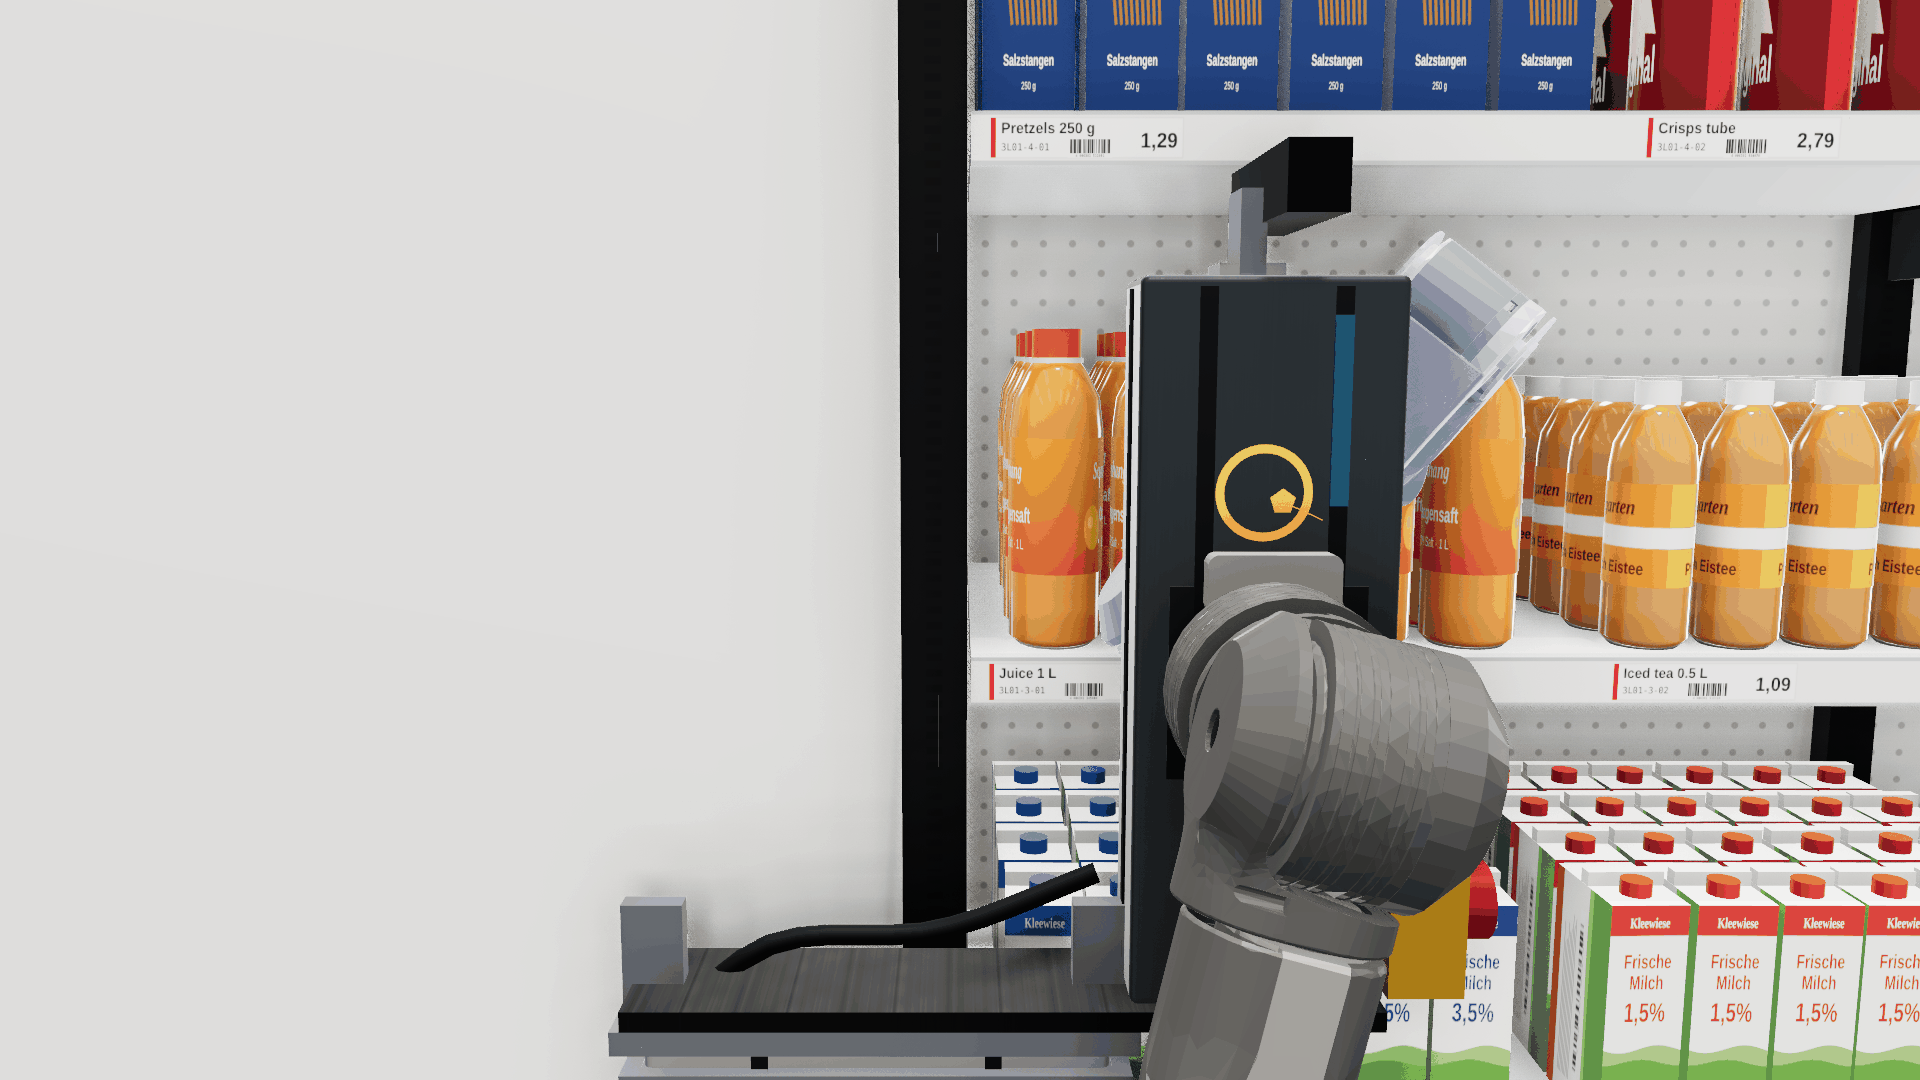
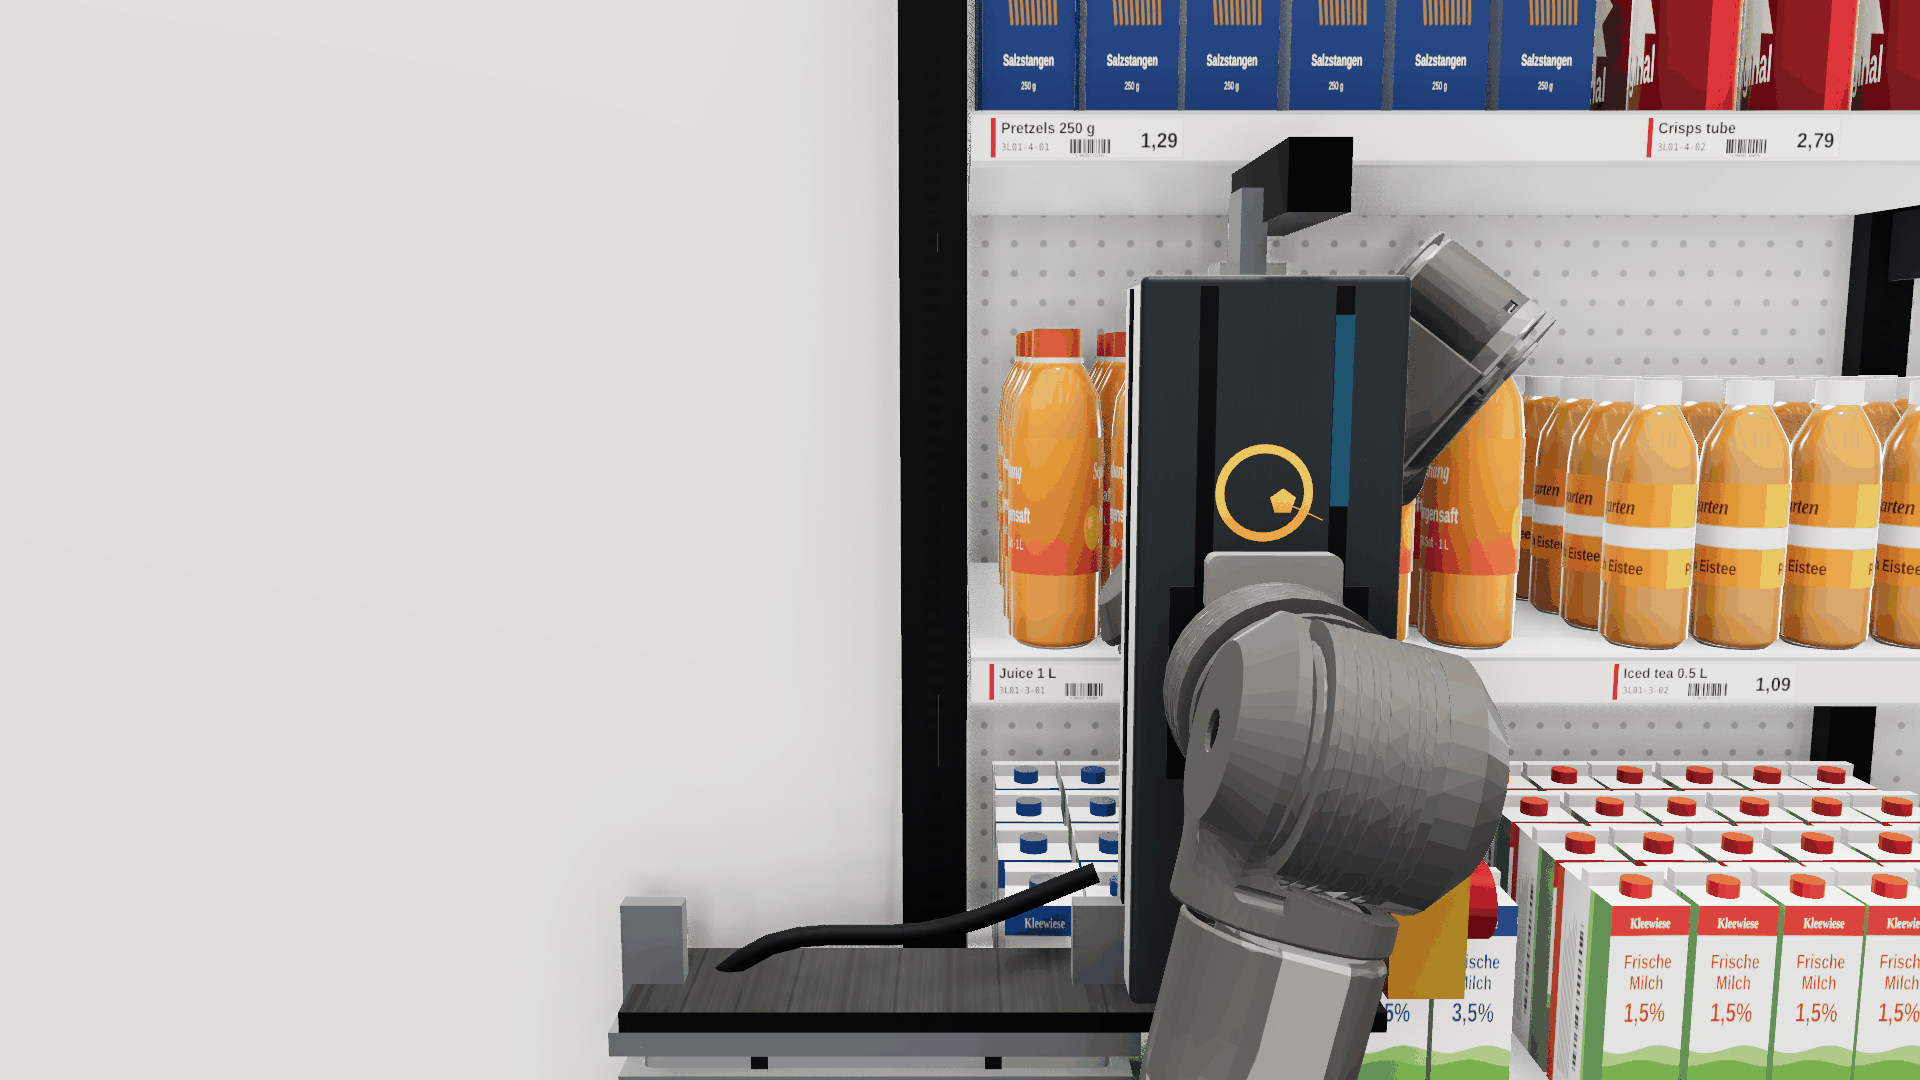
evidence: review round 3 (arm colour cause and measurements, page defaults)
Arm material identity and same-link colour of both arms before (d60f4af)
and after, both looks, Overview and Side presets, page pose and mirrored
rest pose; previews 07 and 08 and the contact sheet regenerated; geometry
check, probe and toggle test and the page-defaults check at 375 and
1280 px rerun.

Claude-Session: https://claude.ai/code/session_01VFnEBRJPA4A3dgj7YTaLKh

diff --git a/evidence/2026-10-26-shared-model/defaults.js b/evidence/2026-10-26-shared-model/defaults.js
@@ -1,0 +1,24 @@
+// Both pages with their defaults at 375 and 1280 px: console errors and warnings, failed requests, horizontal
+// scroll, and the robot.html defaults (view preset, Frames, Labels, High quality, look). Page screenshot after 25 s.
+const { chromium } = require('playwright');
+(async () => {
+  const port = process.argv[2], b = await chromium.launch({args: ['--use-angle=swiftshader', '--enable-unsafe-swiftshader', '--ignore-gpu-blocklist']});
+  const res = {};
+  for (const page of ['robot.html', 'exploded.html']) for (const w of [1280, 375]) {
+    const p = await b.newPage({viewport: {width: w, height: w > 400 ? 800 : 812}}); p.setDefaultTimeout(600000);
+    const msgs = [];
+    p.on('console', m => { if (m.type() === 'error' || m.type() === 'warning') msgs.push(m.type() + ': ' + m.text()); });
+    p.on('pageerror', e => msgs.push('pageerror: ' + e.message)); p.on('requestfailed', r => msgs.push('requestfailed: ' + r.url()));
+    await p.goto(`http://localhost:${port}/${page}`, {waitUntil: 'domcontentloaded'});
+    await p.waitForTimeout(25000);
+    const st = await p.evaluate(() => {
+      const on = id => { const e = document.getElementById(id); return e ? e.classList.contains('on') || e.getAttribute('aria-pressed') === 'true' : null; };
+      return {view: [...document.querySelectorAll('[data-view].on')].map(e => e.dataset.view), frames: on('b-frames'), labels: on('b-labels'),
+        hq: window.__sim ? window.__sim.S.hq : on('b-hq'), light: window.OAMR_LOOK.isLight(), scrollWidth: document.documentElement.scrollWidth};
+    });
+    await p.screenshot({path: `${process.argv[3] || '.'}/${page.replace('.html', '')}_${w}_defaults.png`, timeout: 600000});
+    res[page + '@' + w] = Object.assign(st, {msgs});
+    await p.close();
+  }
+  console.log(JSON.stringify(res, null, 1)); await b.close();
+})();

diff --git a/evidence/2026-10-26-shared-model/README.md b/evidence/2026-10-26-shared-model/README.md
@@ -223,6 +223,79 @@ silhouette pixels front and rear (`geom_x.json`, `geom_r.json`). Frame times (sa
 The specular powder coat (MeshPhysicalMaterial) did not slow the full look down measurably (1,063 against
 1,183 ms before this round, within run-to-run spread). Screenshots marked after were rerun (full look).
 
+## Review round 3: arm colour on the robot page, page defaults
+
+**Cause of the lavender arm.** robot.html swapped the *working arm* (the arm chosen for the pick target) to
+a second material, `armHi`: the same as-delivered vertex colours plus a blue emissive (`#2A5BD7`,
+intensity 0.35), described by a "Working arm" legend chip. Under the store lights the emissive read as
+lavender; the other arm kept the as-delivered material. exploded.html never used `armHi`, so both arms
+were grey there. Store lights, environment reflection and material cloning were checked and are not the
+cause: in each look both arms resolve to one material object. Fix (`patch_robot_defaults.py`, model.js):
+the highlight swap now assigns the as-delivered material to both arms, `armHi` and the legend chip are
+removed. In the light look both arms use the same Lambert twin. No geometry change.
+
+`armcolour.js` (robot.html, both looks, Overview and Side presets, camera tiles, Frames and Labels off):
+each link group of both rigs is tagged for the colour sampler; faces turned to the camera, edges eroded,
+median sRGB per link and per whole arm. Material identity in the page: before, 2 arm materials (left
+`MeshPhysicalMaterial` emissive `2a5bd7`, right emissive `000000`); after, 1 in the full look
+(`MeshPhysicalMaterial`, emissive `000000`) and 1 in the light look (`MeshLambertMaterial`).
+
+Chromaticity (each channel over the luma of its own arm, the tint; largest channel difference, left
+against right) and luma, same link, page pose (the pick-target pose of the page: the working arm reaches
+into the shelf, the other is parked):
+
+| Look | Preset | Link | Before: left, right sRGB | Before: chroma, luma | After: left, right sRGB | After: chroma, luma |
+|---|---|---|---|---|---|---|
+| full | Overview | 2 | 177 180 203, 83 81 78 | 16.8 %, +122.9 % | 123 120 115, 83 81 78 | **0.5 %**, +48.1 % |
+| full | Overview | 3 | 169 173 197, 84 82 79 | 17.9 %, +111.5 % | 120 117 112, 84 82 79 | **0.6 %**, +42.7 % |
+| full | Overview | whole arm | 177 180 202, 99 97 93 | 16.6 %, +86.3 % | 119 116 111, 99 97 93 | **0.4 %**, +19.7 % |
+| full | Side | 3 | 144 149 182, 103 100 96 | 26.6 %, +49.8 % | 81 79 75, 103 100 96 | **0.9 %**, -21.1 % |
+| full | Side | whole arm | 144 150 183, 101 99 95 | 26.4 %, +52.4 % | 80 77 74, 101 99 95 | **1.4 %**, -21.9 % |
+| light | Overview | 2 | | | 91 88 84, 53 52 49 | **1.0 %**, +69.9 % |
+| light | Side | whole arm | | | 46 45 43, 71 69 65 | **1.5 %**, -34.8 % |
+
+Both arms now have the same colour (chroma within 1.7 % in every link, preset and look). Their luma still
+differs in the page pose, because the two arms stand in different poses and places under the store lights:
+the working arm reaches towards the lit shelf, the parked arm faces the aisle, and in the Side preset the
+camera sees the outside of one arm and the inside of the other. That is lighting and view, not material.
+With both arms in the model's mirrored rest pose (`mirrored`, test only) the links the Overview camera sees
+alike agree within 5 % in luma as well:
+
+| Look | Preset (mirrored pose) | Link | Left, right sRGB | Chroma | Luma |
+|---|---|---|---|---|---|
+| full | Overview | 2 | 82 80 77, 83 81 78 | 0.1 % | **-1.2 %** |
+| full | Overview | 3 | 82 81 77, 84 82 79 | 1.0 % | **-1.6 %** |
+| light | Overview | 0 | 82 80 75, 84 82 78 | 1.4 % | **-2.5 %** |
+| light | Overview | 1 | 105 102 97, 108 105 100 | 0.2 % | **-2.8 %** |
+| light | Overview | 2 | 53 52 49, 53 52 49 | 0.0 % | **0.0 %** |
+| light | Overview | 3 | 52 51 48, 53 52 49 | 0.1 % | **-1.9 %** |
+| full | Overview | 0 (mount, seen from different sides) | 92 90 87, 120 117 112 | 1.0 % | -23.1 % |
+| full | Side | 3 (outside against inside of the arm) | 76 74 71, 103 100 96 | 0.2 % | -26.0 % |
+
+So the 5 % criterion holds in luma where the two arms are seen alike (same pose, mirrored view); in the
+page pose and in the Side preset the luma difference is the store lighting on differently placed arms,
+which this change does not alter (store lighting is page-specific and out of scope). Raw rows:
+`arm_colour_before.jsonl` (`d60f4af`), `arm_colour_after.jsonl`.
+
+**Page defaults (robot.html).** View preset Follow, Frames off, Labels off (`patch_robot_defaults.py`; the
+buttons still switch them on); High quality on by default on wide screens as before (`hq: !Mr`; narrow
+screens start with it off, unchanged), the frame probe and `?look=` unchanged. `check_roadmap.py` checks
+the preset, the Frames and Labels buttons and start values, High quality, a single selected preset and the
+absence of an arm tint. Previews 07 and 08 regenerated (their pictures already had Frames and Labels off).
+
+**Rerun.** Geometry: exploded 132/132, robot 203/203, largest matrix difference 0, 0 differing silhouette
+pixels (`geom_x.json`, `geom_r.json`). Probe and toggle (`looktest4.json`): all four page and width
+combinations switch to the light look on SwiftShader with the toggle off; one click restores the full
+look; no console messages. Defaults at 375 and 1280 px (`defaults.js`, pages loaded with no parameters,
+read after 25 s):
+
+| Page | View preset | Frames | Labels | High quality | Look at 25 s | Console | scrollWidth |
+|---|---|---|---|---|---|---|---|
+| robot.html 1280 px | Follow | off | off | on | full (probe still running at about 8 s per frame) | no messages | 1280 |
+| robot.html 375 px | Follow | off | off | off (narrow-screen default, unchanged) | light (probe done) | no messages | 375 |
+| exploded.html 1280 px | | | | off (probe) | light (probe, SwiftShader) | no messages | 1280 |
+| exploded.html 375 px | | | | off (probe) | light (probe, SwiftShader) | no messages | 375 |
+
 ## Performance
 
 `perf.js`: same machine (4 vCPU container, no GPU, SwiftShader), 1280 x 800, median of 30 renders after
